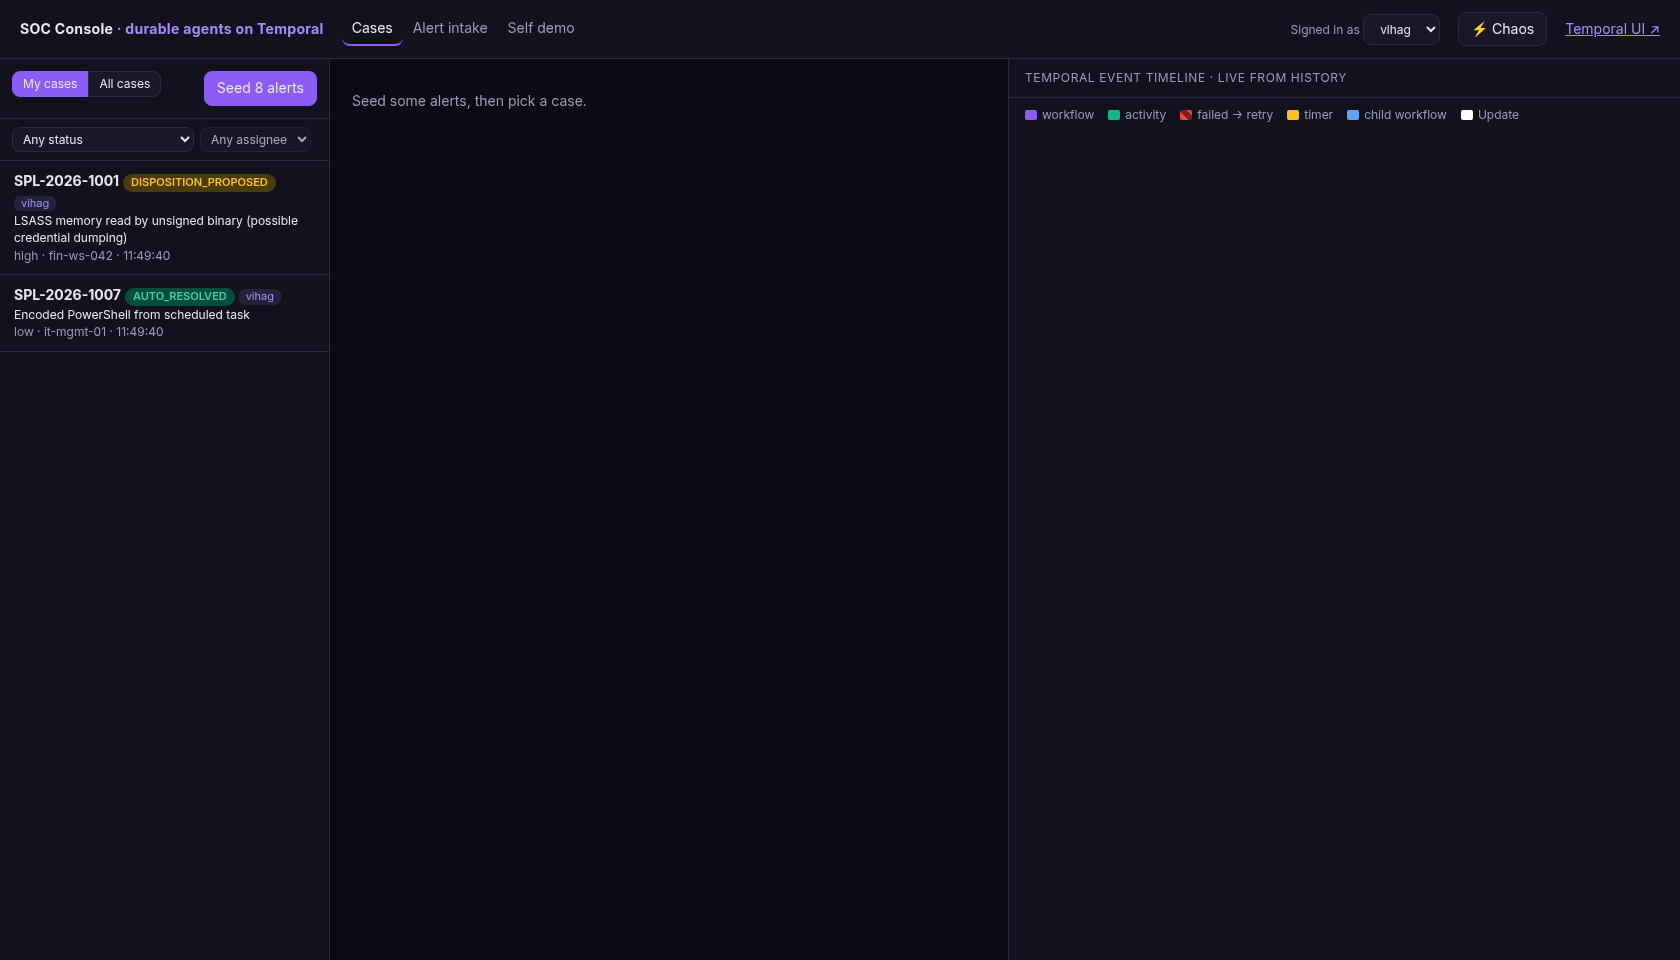
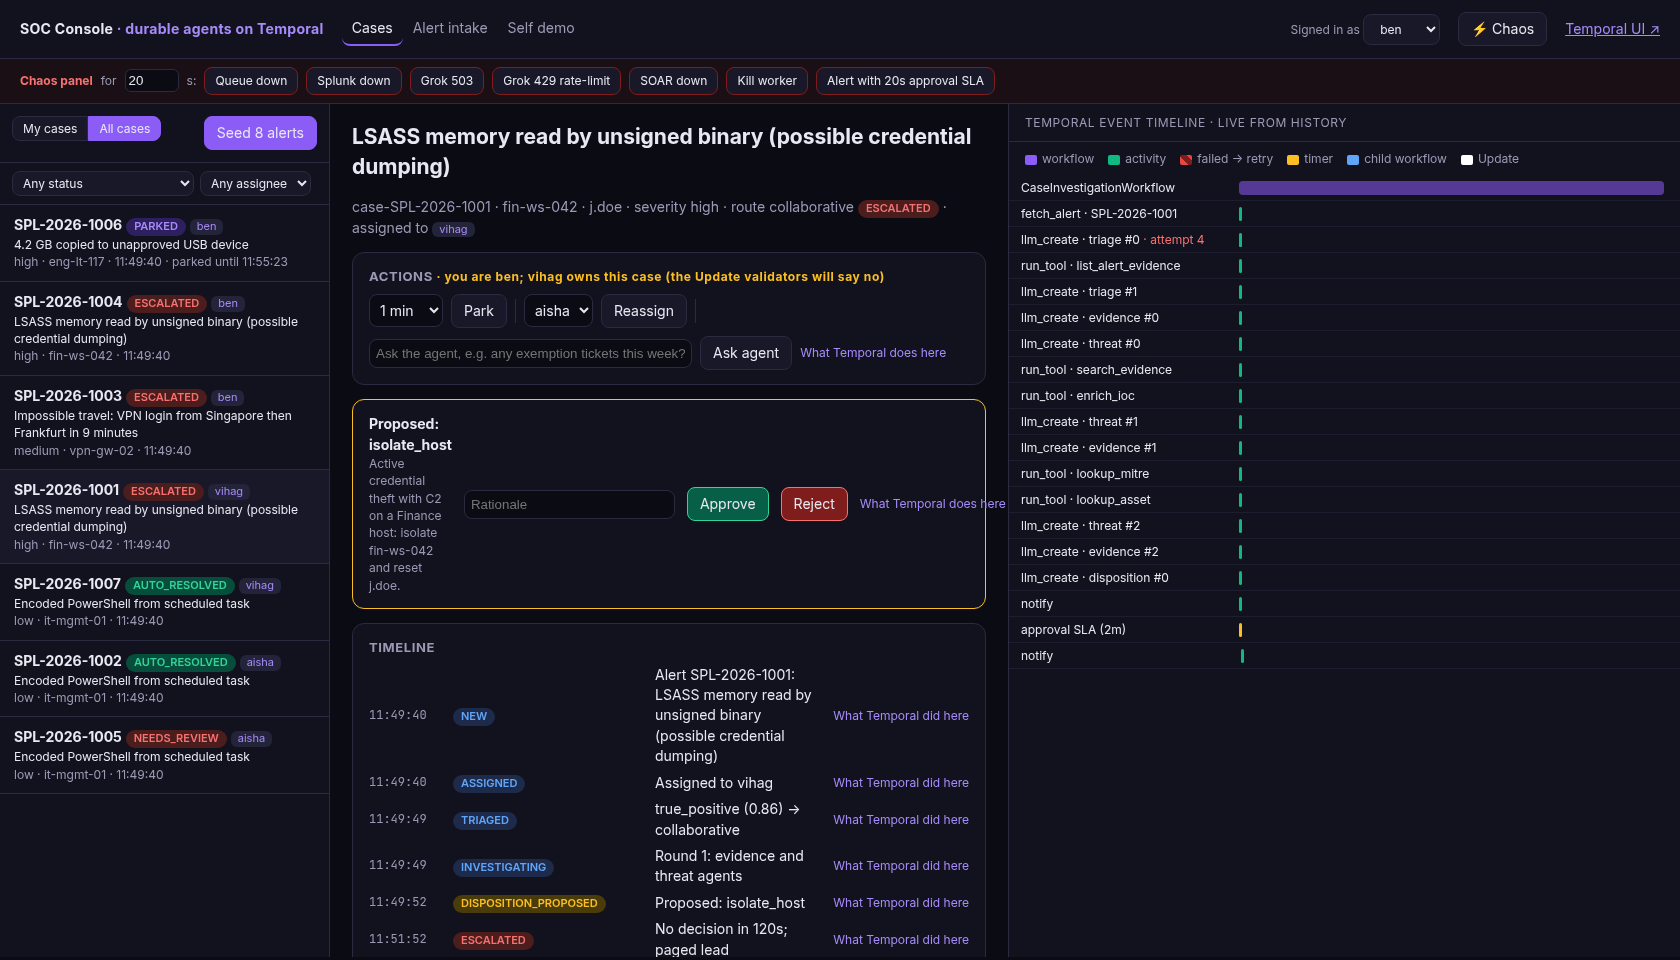
feat(v2): intake gantt focus, park note, compose mock-grok/mock-queue, screenshots

diff --git a/src/soc/ui/index.html b/src/soc/ui/index.html
@@ -105,7 +105,7 @@ body.chaos main{height:calc(100vh - 107px)}
   <div class="stats" id="istats"></div>
   <div class="ipanes">
     <section id="ilog"><div class="ptitle" style="padding-left:0">IntakeWorkflow · recent decisions (a Query)</div><div id="ilines"></div></section>
-    <section id="igantt"><div class="ptitle">alert-intake · current run's event history (latest 40)</div><div id="irows"></div></section>
+    <section id="igantt"><div class="ptitle">alert-intake · case starts, duplicates, retries and the latest polls (this run's history)</div><div id="irows"></div></section>
   </div>
 </main>
 
@@ -274,7 +274,9 @@ async function loadIntake(){
     .map(([k, v]) => `<div class="stat"><span class="small dim">${k}</span><b>${v ?? '-'}</b></div>`).join('');
   $('ilines').innerHTML = (s.recent || []).map(l => { const [ts, ...rest] = l.split(' ');
     return `<div class="small"><span class="mono dim">${hhmmss(ts)}</span> ${esc(rest.join(' '))}</div>`; }).join('') || '<p class="dim">Nothing yet: press Seed on the Cases tab.</p>';
-  const h = await api('/api/cases/alert-intake/history'); gantt('irows', 'intake', h.bars, h, 'alert-intake', 40);
+  const h = await api('/api/cases/alert-intake/history'), [wf, ...rest] = h.bars;
+  const keep = rest.filter((b, i) => b.kind !== 'activity' && b.kind !== 'timer' || b.attempt > 1 || b.name === 'ack_alerts' || i >= rest.length - 8);
+  gantt('irows', 'intake', [wf, ...keep.slice(-40)], h, 'alert-intake', 40);
 }
 
 /* ---------- self demo ---------- */

diff --git a/src/soc/workflow.py b/src/soc/workflow.py
@@ -149,7 +149,8 @@ class CaseInvestigationWorkflow:
     async def _stay_parked(self, resume_as: Status) -> None:
         """PARKED until the park timer fires, the analyst unparks, or decides anyway."""
         until = datetime.fromisoformat(self.case.parked_until)
-        self._enter(Status.PARKED, f"Parked by {self.case.assignee} until {until:%H:%M:%S} UTC")
+        secs = int((until - workflow.now()).total_seconds())
+        self._enter(Status.PARKED, f"Parked by {self.case.assignee} for {secs}s (decide any time)")
         try:
             await workflow.wait_condition(
                 lambda: not self.case.parked_until or self.decision is not None,

diff --git a/src/soc/api.py b/src/soc/api.py
@@ -343,7 +343,7 @@ class HistoryBars:
                 a = e.start_child_workflow_execution_initiated_event_attributes
                 by_id[e.event_id] = bar = {
                     "kind": "child",
-                    "label": f"{a.workflow_type.name} · {a.workflow_id}",
+                    "label": f"↳ child {a.workflow_id}",
                     "child_id": a.workflow_id,
                     "start": at,
                     "end": None,
